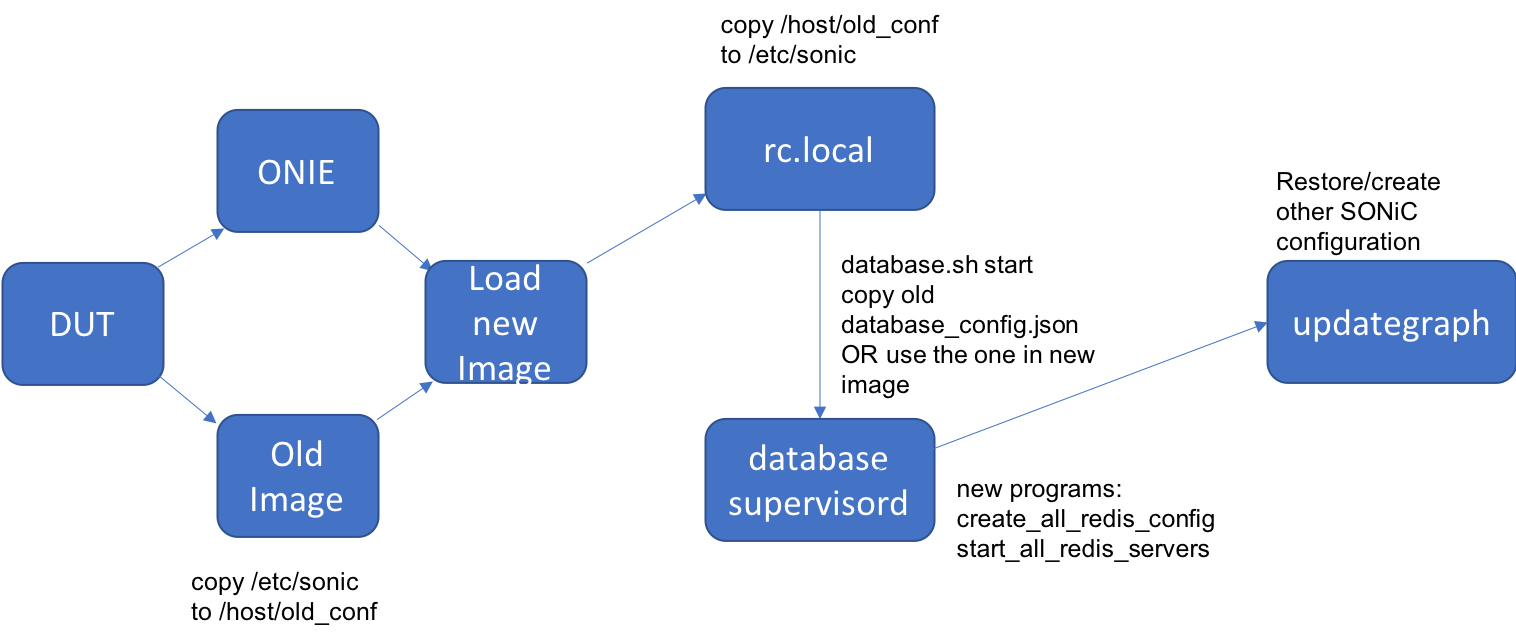
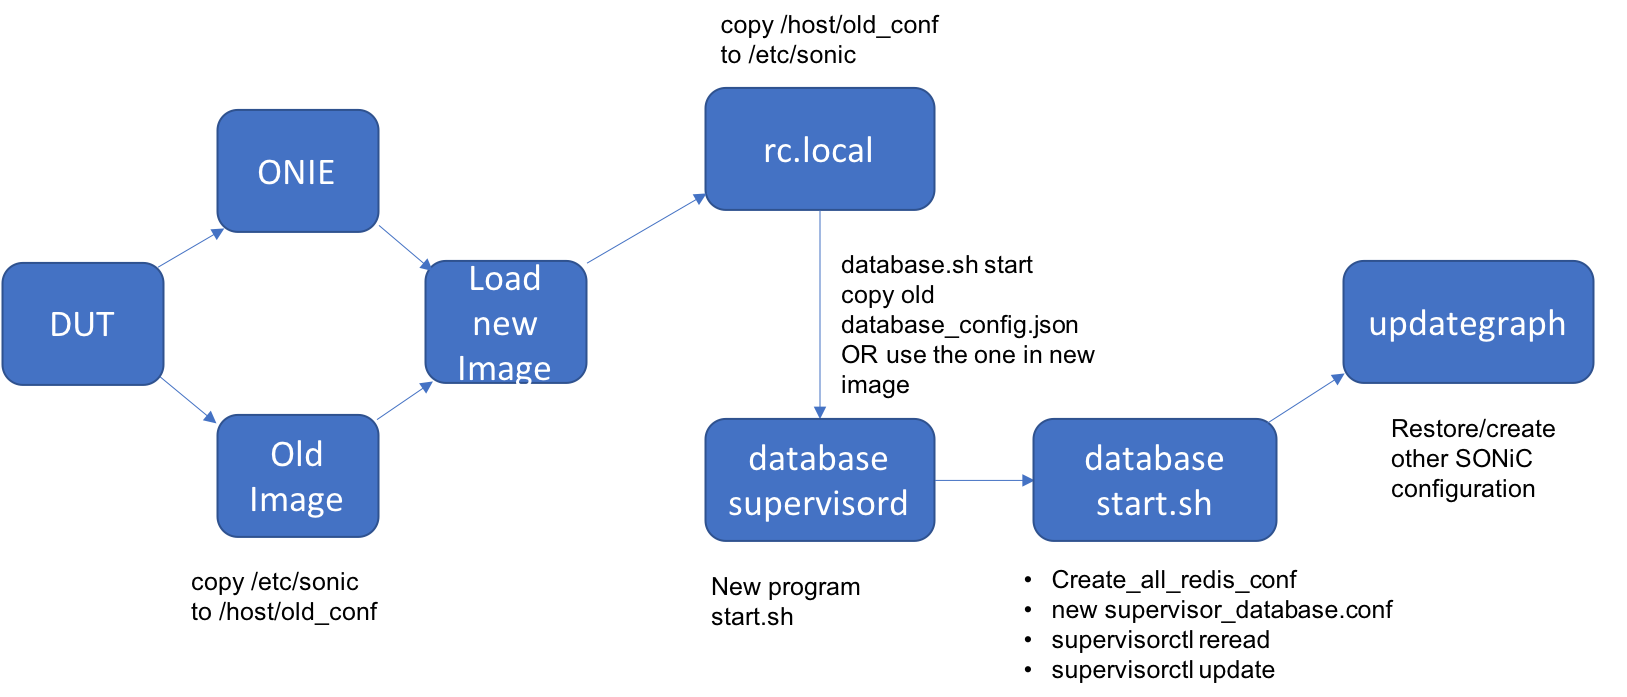
update doc for added supervisor_database.conf

diff --git a/doc/database/multi_database_instances.md b/doc/database/multi_database_instances.md
@@ -61,15 +61,22 @@ DUT try to load a new images
 
 * By default, each image has one database\_config.json file in SONiC file system at /etc/sonic/
 
-* The users is able to modify this config file (e.g. adding a new DB instance) on switch and reload the setup to make it take effect. New image will copy this config file to overwrite the default one on the new image while rebooting. 
+* The users is able to modify this config file (e.g. adding a new DB instance) on switch and reload the setup to make it take effect. New image will copy this database config file to overwrite the default one on the new image while rebooting.
 
-* DO NOT change the original single redis database instance implementation
-    * [x] If we don't have any DATABASE configuration in database\_config.json, the default redis database instance is there and behaves the same as what it does today
-    * [x] If we have some DATABASE configuration in database\_config.json,  besides the default redis database instance, we create these extra database instances, later the users can choose which database instances they want to use according to their configuration in database\_config.json
+* At least one database instance will run
+    * [x] If we don't have any DATABASE configuration in database\_config.json, the default redis instance with port 6379 will start and behaves the same as what it does today.
+    * [x] If we have some DATABASE configuration in database\_config.json, we create these redis database instances.
+    * [x] So the user needs to remember : DON'T delete database_config.json file
 
-* All database related configuration(redis.conf, redis.sock, redis.pid, supervisord.conf, database ping/pong script) will be decided/generated during rebooting at the very beginning when starting database docker,  we will use database\_config.json to generate necessary config.
+* All database related configuration(redis.conf, redis.sock, redis.pid, supervisord.conf, database ping/pong script) will be decided/generated at the very beginning when starting database docker,  we will use database\_config.json to generate necessary config and start database instances.
 
-* We add two programs in supervisord (create_all_redis_conf and start_all_redis_servers) to handle this.
+* We add one start.sh  programs in supervisord.conf , and the supervisord will run it.
+
+* in start.sh, we call "create_all_redis_conf" script to generate all redis conf files
+
+* still in start.sh, we generate another supervisord_database.conf based on the database_config.json file
+
+* finally, we supervisorctl reread and update to make this  new added supervisord_database.conf take effect. At this point, all the redis servers are running. Supervisord manage all redis servers.
 
 ![center](./img/newDesign.png)
 
@@ -84,8 +91,8 @@ DUT try to load a new images
     * [x] **database.sh start**
         * [x] **Entry Point is still supervisord**
         * [x] **database\_config.json should always exist**
-        * [x] **generate all necessary redis conf files via script create_all_redis_config**
-        * [x] **start all redis servers via script start_all_redis_servers**
+        * [x] **generate all necessary redis conf files and supervisord_database.conf file**
+        * [x] **supervisorctl reread and update to start all redis servers**
     * [x] **check if database instances are running via ping/PONG check script**
 4. updategraph service (no changes)
     * [x] depends on rc.local and database
